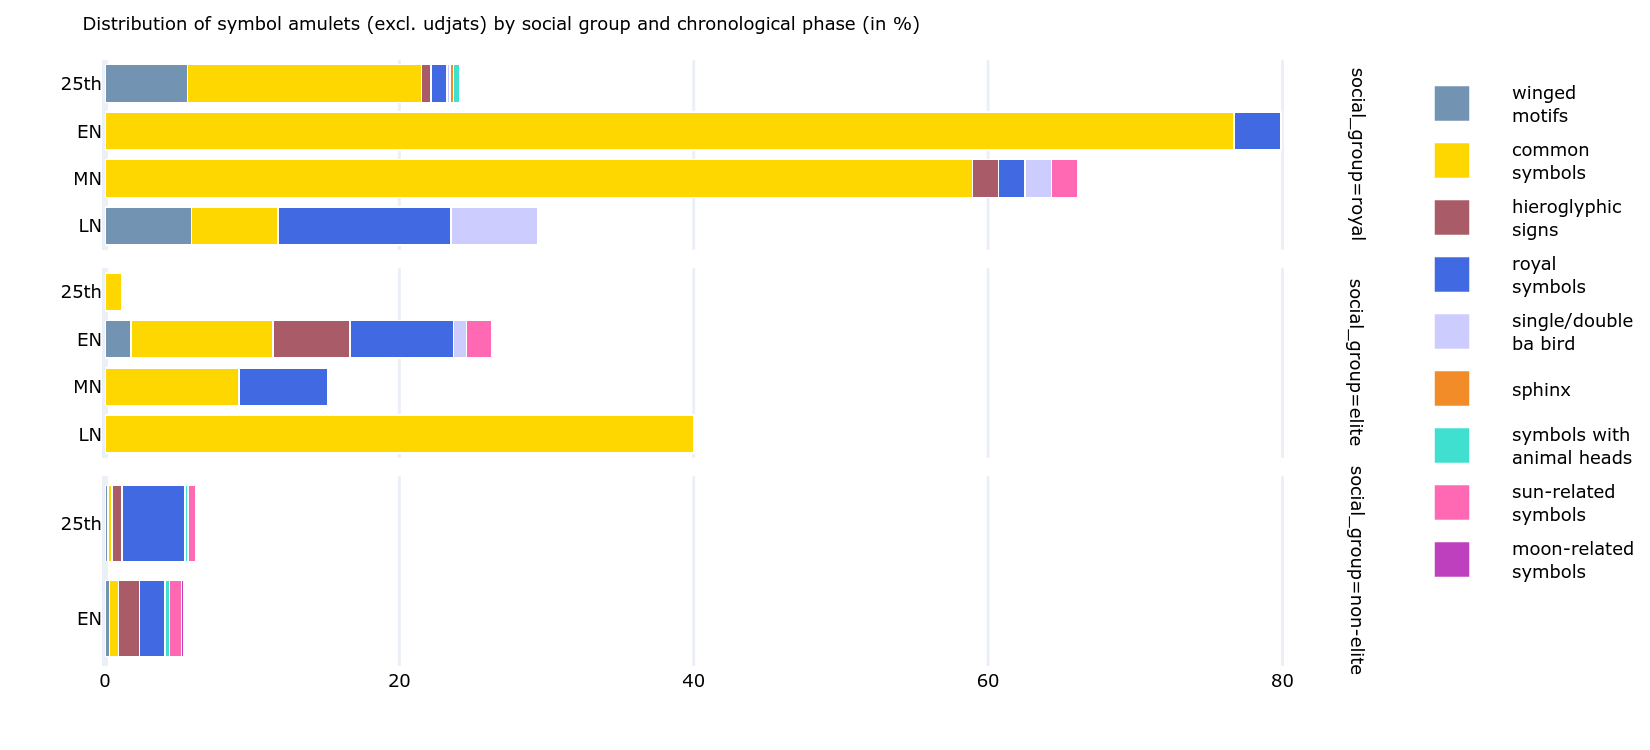
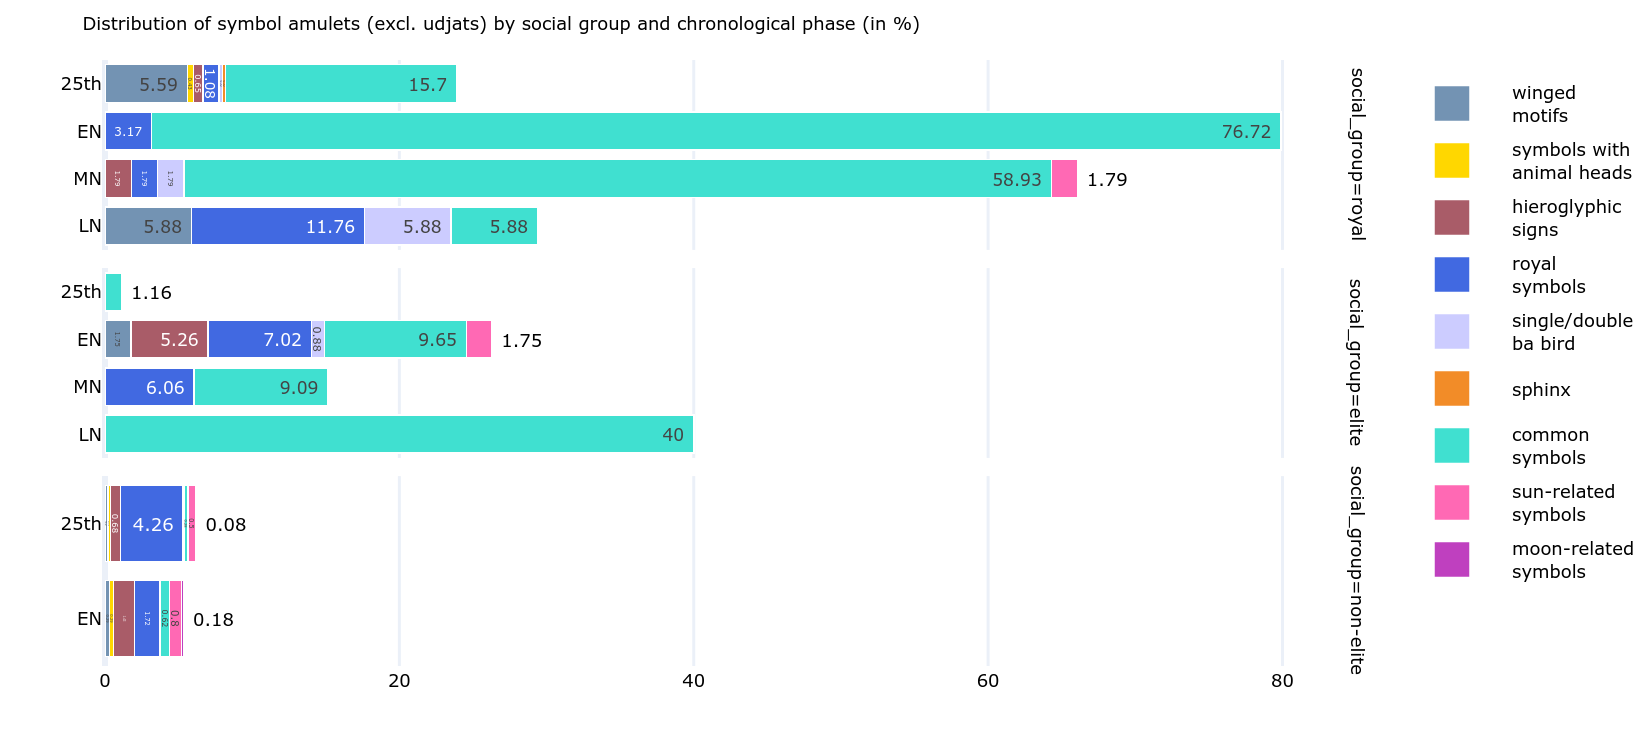
corrected data

diff --git a/chapter6/motifs_phase_symbols.py b/chapter6/motifs_phase_symbols.py
@@ -69,7 +69,7 @@ SELECT
         WHEN form IN ('ba bird', 'double ba bird') THEN 'single/double ba bird'
         WHEN form IN ('winged griffin', 'winged scarab', 'winged snake', 'winged uraeus') THEN 'winged motifs'
         WHEN form IN ('sphinx') THEN 'sphinx'
-        WHEN form IN ('menat', 'heart', 'djed', 'isis knot', 'ankh/sun disc/udjat') THEN 'common symbols'
+        WHEN form IN ('menat', 'heart', 'djed', 'isis knot') THEN 'common symbols'
         WHEN form IN ('lion-headed uraeus', 'ram-headed sphinx') THEN 'symbols with animal heads'
         ELSE form
     END AS form,
@@ -187,6 +187,7 @@ fig = px.bar(
     df_final,
     x='percentage',
     y='phase',
+    text='percentage',
     color='form',
     facet_row='social_group',
     template="plotly_white",

diff --git a/chapter6/types_phase.py b/chapter6/types_phase.py
@@ -99,6 +99,8 @@ df_grouped['phase'] = pd.Categorical(df_grouped['phase'], categories=phase_order
 
 df_grouped = df_grouped.sort_values('phase')
 
+print(df_grouped)
+
 fig = px.bar(
     df_grouped,
     x='percentage',

diff --git a/chapter6/motifs_phase_deities.py b/chapter6/motifs_phase_deities.py
@@ -180,6 +180,7 @@ fig = px.bar(
     x='percentage',
     y='phase',
     color='form',
+    text='percentage',
     facet_row='social_group',
     template="plotly_white",
     barmode='stack',

diff --git a/chapter6/motifs_phase_udjat.py b/chapter6/motifs_phase_udjat.py
@@ -173,6 +173,7 @@ fig = px.bar(
     df_final,
     x='percentage',
     y='phase',
+    text='percentage',
     color='form',
     facet_row='social_group',
     text='percentage',
